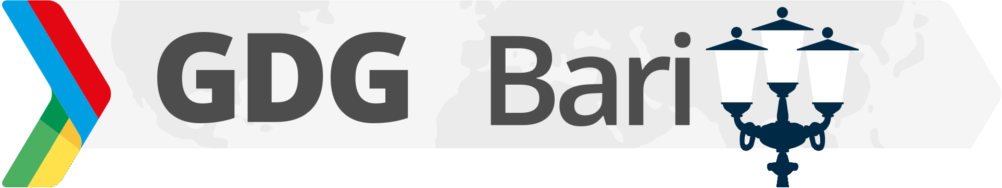
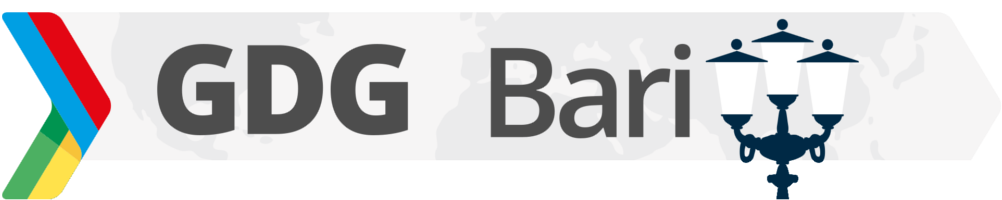
fix bar

diff --git a/css/theme/source/gdg.less b/css/theme/source/gdg.less
@@ -60,15 +60,38 @@
 // some overrides after theme template import
 @mainFont: 'Roboto', sans-serif;
 body {
-    background-image: url("../../../img/gdg-bari.png");
+   /* background-image: url("../../../img/gdg-bari.png");
     background-repeat: no-repeat;
     background-size: 20%;
-    background-position: bottom left;
+    background-position: bottom left;*/
+
 }
 
+
+
+.img{
+    //background: url("../../../img/gdg-bari.png");
+    //background-repeat: no-repeat;
+    width: 100%;
+    height: 20%;
+
+    //background-size: 100%;
+    //background-position: bottom left;
+    position: fixed;
+    bottom: 0%;
+    z-index: 9999;
+
+    img {
+        position: relative;
+        bottom: 0%;
+        left: 0%;
+        height: 20%;
+    }
+
+}
 .blue-band {
     width: 100%;
-    height: 10px;
+    height: 1.5%;
     background-color: @gdg2;
     position: fixed;
     bottom: 0%;
@@ -76,7 +99,7 @@ body {
 
 .reveal {
     .progress {
-        height: 10px;
+        height: 2%;
         span {
             background: @gdg2;
         }

diff --git a/css/theme/source/gdg.css b/css/theme/source/gdg.css
@@ -295,20 +295,33 @@ body {
   transition: width 800ms cubic-bezier(0.26, 0.86, 0.44, 0.985);
 }
 body {
-  background-image: url("../../../img/gdg-bari.png");
-  background-repeat: no-repeat;
-  background-size: 20%;
-  background-position: bottom left;
+  /* background-image: url("../../../img/gdg-bari.png");
+    background-repeat: no-repeat;
+    background-size: 20%;
+    background-position: bottom left;*/
+}
+.img {
+  width: 100%;
+  height: 20%;
+  position: fixed;
+  bottom: 0%;
+  z-index: 9999;
+}
+.img img {
+  position: relative;
+  bottom: 0%;
+  left: 0%;
+  height: 20%;
 }
 .blue-band {
   width: 100%;
-  height: 10px;
+  height: 1.5%;
   background-color: #0077b3;
   position: fixed;
   bottom: 0%;
 }
 .reveal .progress {
-  height: 10px;
+  height: 2%;
 }
 .reveal .progress span {
   background: #0077b3;

diff --git a/index.html b/index.html
@@ -29,8 +29,11 @@
 				<section><h4>Text</h4><p>Text1 lalallal</p></section>
 			</div>
 		</div>
-		<div class="blue-band"></div>
 
+		<div class="img">
+			<img src="img/gdg-bari.png" />
+			<div class="blue-band"></div>
+		</div>
 		<script src="lib/js/head.min.js"></script>
 		<script src="js/reveal.js"></script>
 
